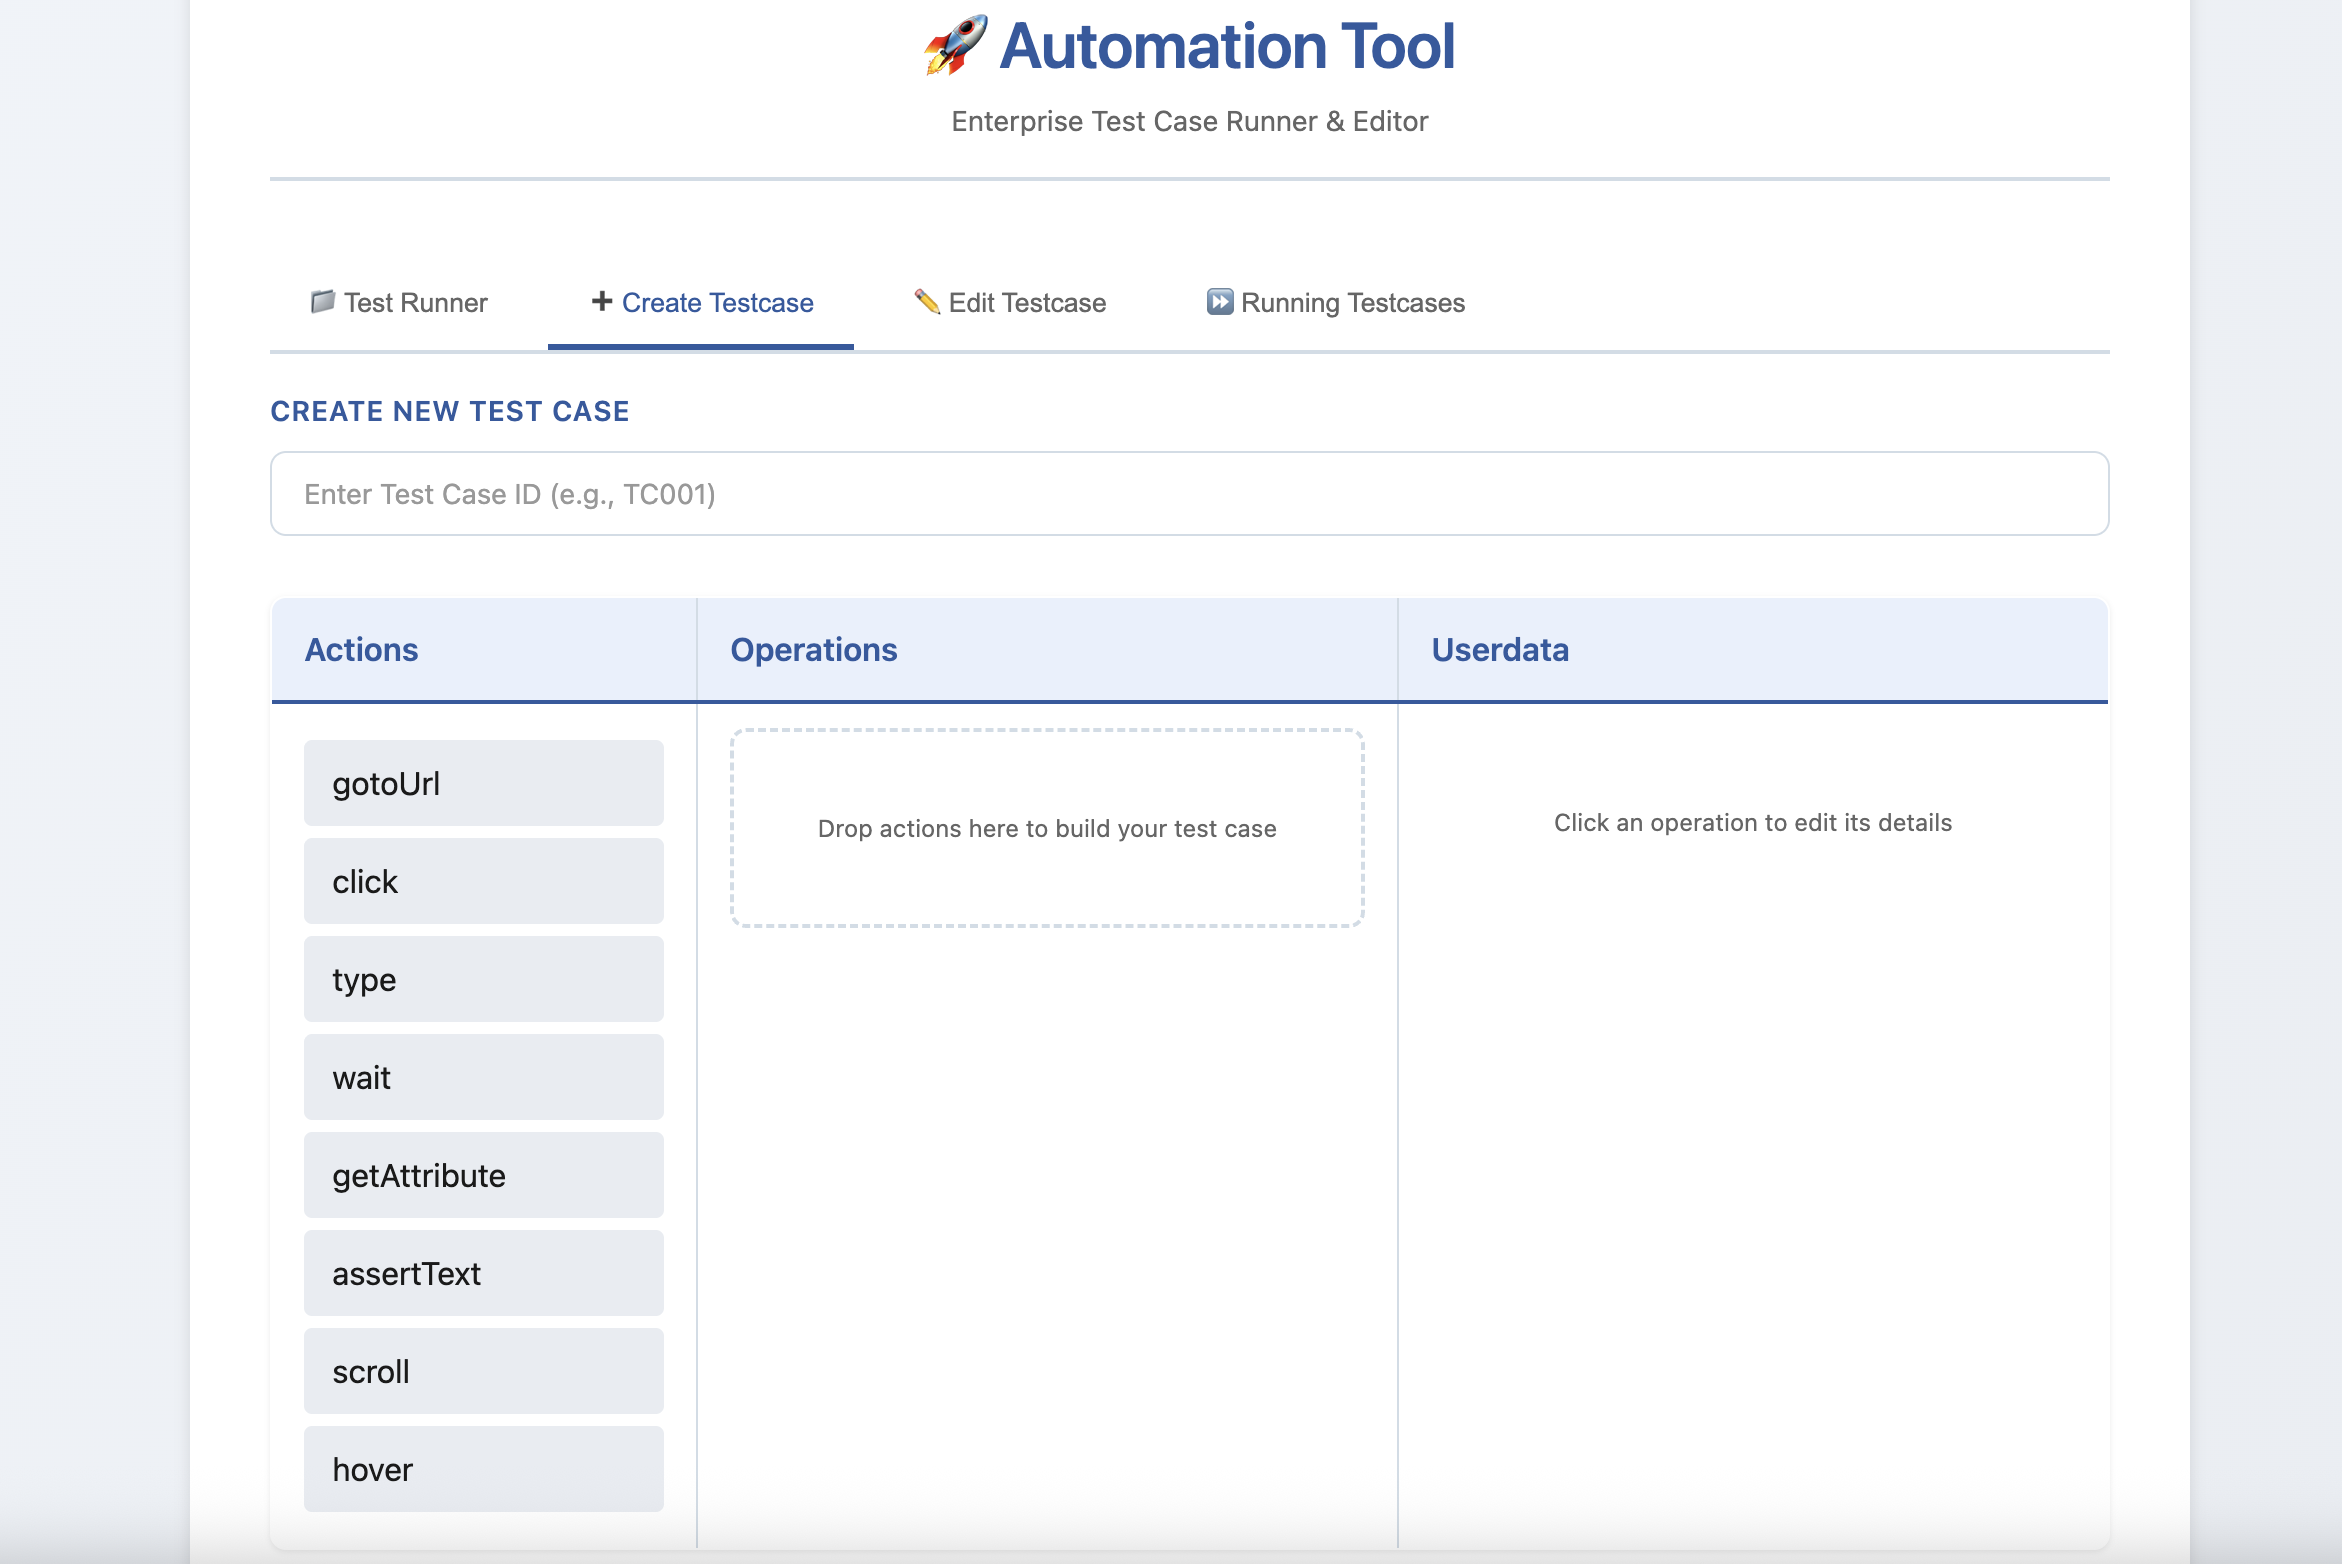
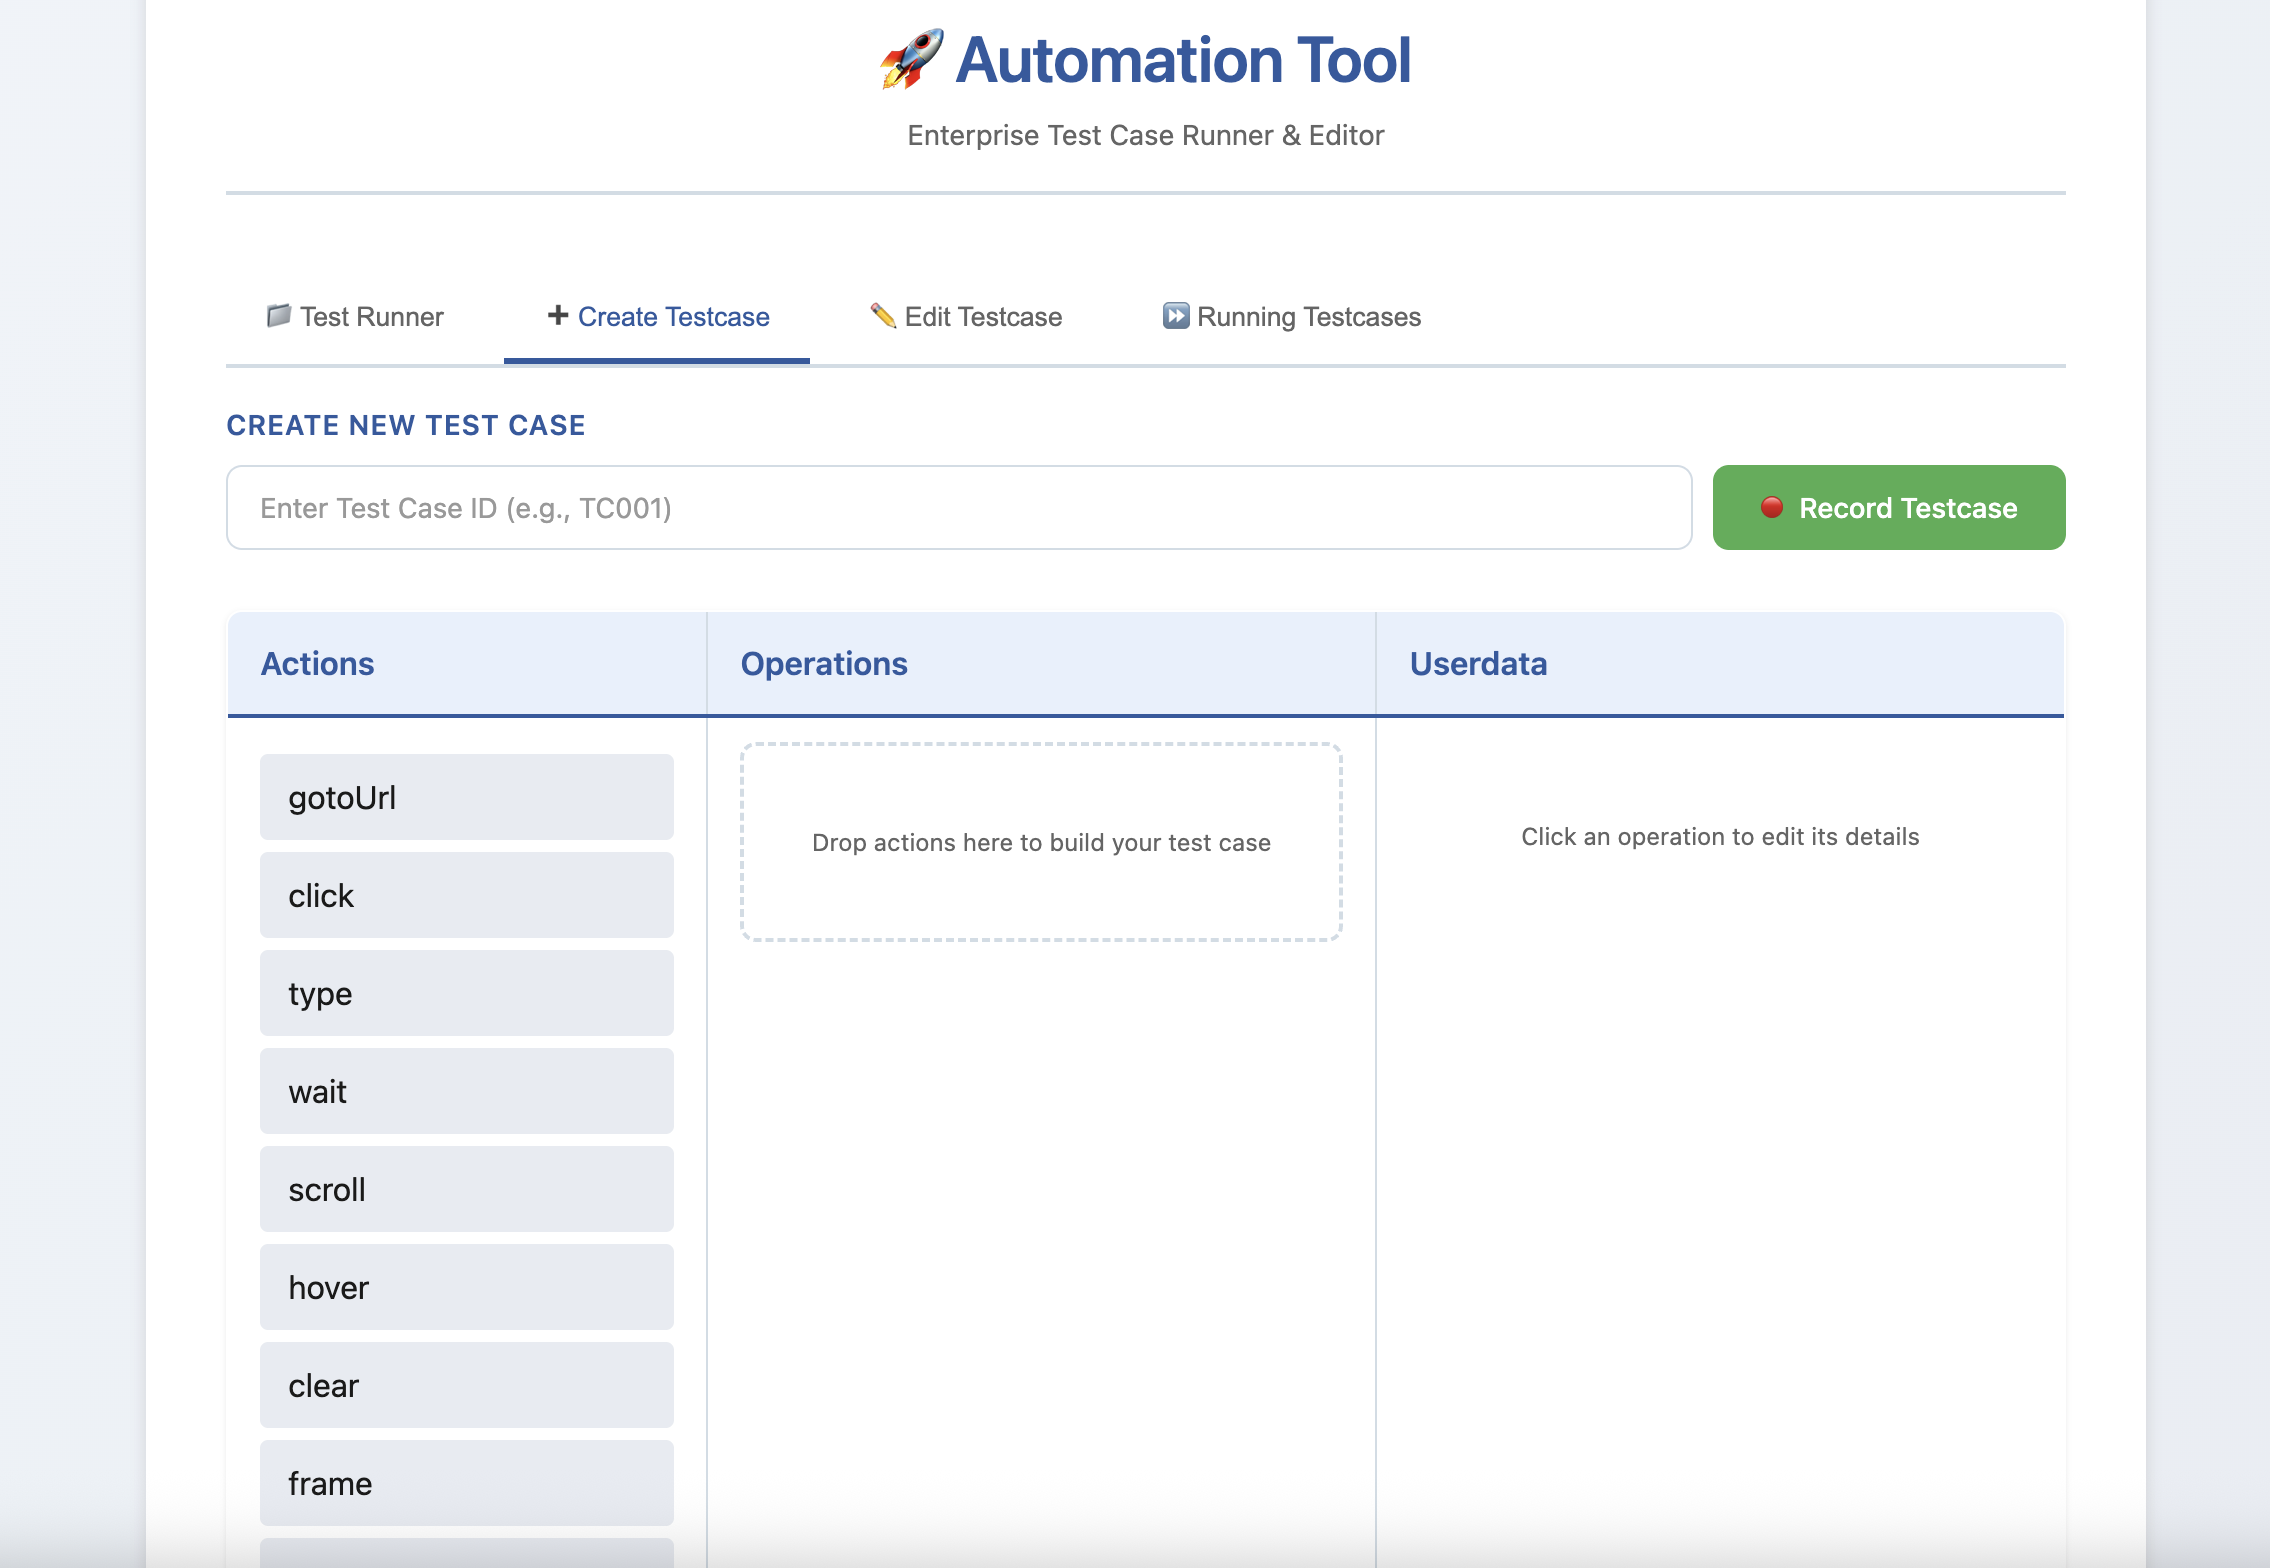
assertion support for recorder and readme updated

diff --git a/src/main/webapp/js/index.js b/src/main/webapp/js/index.js
@@ -504,6 +504,7 @@ async function recordTestcaseServer(fileName, location, testcaseId, epic, featur
             document.getElementById('feature').value = '';
             document.getElementById('story').value = '';
             document.getElementById('description').value = '';
+            document.getElementById('webpageUrl').value = '';
         } else {
             showStatus(result.message || 'Failed to record test case', 'error');
         }

diff --git a/src/main/java/org/automation/driver/ActionRecorder.java b/src/main/java/org/automation/driver/ActionRecorder.java
@@ -155,7 +155,7 @@ public class ActionRecorder {
 //                        lastTs = ts;
 //                    }
 //                }
-                logger.info("⏱ Synced → total actions: {} %n", actions.size());
+                logger.info("⏱ Synced → total actions: {}", actions.size());
             }
         } catch (Exception e) {
             // Silent fail during polling - usually page closing
@@ -166,7 +166,6 @@ public class ActionRecorder {
     private void injectRecorderScript(Page page) {
         page.addInitScript("""
             // Load existing actions from localStorage (survives same-origin navigation)
-//            let recordedActions = [];
             window.recordedActions = window.recordedActions || [];
             try {
                 const stored = localStorage.getItem('recordedActions');
@@ -215,6 +214,75 @@ public class ActionRecorder {
                 } catch (e) {
                     console.error('Failed to save to localStorage:', e);
                 }
+            }
+            
+            function getElementText(element) {
+                try {
+                    if (!element) return '';
+                    let text = '';
+                    // 0. Selected text (highest priority)
+                    const selection = window.getSelection();
+                    if (selection && selection.toString().trim()) {
+                        return selection.toString().trim();
+                    }
+                    // 7. value (for inputs & buttons)
+                    if ('value' in element) {
+                        text = element.value;
+                        if (text && text.trim()) {
+                            return text.trim();
+                        }
+                    }
+                    // 1. Visible text
+                    text = element.innerText || element.textContent;
+                    if (text && text.trim()) {
+                        return text.trim();
+                    }
+                    // 2. aria-label
+                    text = element.getAttribute('aria-label');
+                    if (text && text.trim()) {
+                        return text.trim();
+                    }
+                    // 3. Associated <label for="id">
+                    const id = element.getAttribute('id');
+                    if (id) {
+                        const label = document.querySelector(`label[for="${CSS.escape(id)}"]`);
+                        if (label && label.innerText.trim()) {
+                            return label.innerText.trim();
+                        }
+                    }
+                    // 5. placeholder
+                    text = element.getAttribute('placeholder');
+                    if (text && text.trim()) {
+                        return text.trim();
+                    }
+                    // 6. title
+                    text = element.getAttribute('title');
+                    if (text && text.trim()) {
+                        return text.trim();
+                    }
+                    // 4. Parent <label>
+                    const parentLabel = element.closest('label');
+                    if (parentLabel) {
+                        text = parentLabel.innerText;
+                        if (text && text.trim()) {
+                            return text.trim();
+                        }
+                    }
+                    return '';
+                } catch (e) {
+                    return '';
+                }
+            }
+            
+            function getElementFromSelection() {
+                const selection = window.getSelection();
+                if (!selection || selection.rangeCount === 0) return null;
+                let node = selection.getRangeAt(0).commonAncestorContainer;
+                // If it's a text node, get its parent element
+                if (node.nodeType === Node.TEXT_NODE) {
+                    node = node.parentElement;
+                }
+                return node;
             }
 
             // CLICK
@@ -273,6 +341,33 @@ public class ActionRecorder {
                 saveActions();
             }, true);
 
+            //Assert Contains Text
+            document.addEventListener('keydown', e => {
+                // Detect Ctrl+C (Windows/Linux) or Cmd+C (Mac)
+                const isCopy = (e.ctrlKey || e.metaKey) && e.key.toLowerCase() === 'c';
+                console.log('--- is copy-'+isCopy);
+                if (!isCopy) return;
+            
+                let active = document.activeElement;
+                if (!active || active === document.body) {
+                    active = getElementFromSelection();
+                }
+                const extractedText = getElementText(active);
+                console.log('--- extractedText-'+extractedText);
+                const selector = getRobustSelector(active);
+            
+                const action = {
+                    actionType: 'containsText',
+                    locator: selector,
+                    arguments: [extractedText],
+                    methodName: 'assertText'
+                };
+            
+                window.recordedActions.push(action);
+                console.log("ACTION:", action);
+                saveActions();
+            }, true);
+
             // SCROLL - debounced
             window.addEventListener('scroll', () => {
                 const now = Date.now();
@@ -301,7 +396,7 @@ public class ActionRecorder {
         try {
             Files.createDirectories(Paths.get(path).getParent());
             mapper.writerWithDefaultPrettyPrinter().writeValue(new File(path), actions);
-            logger.info("✅ Saved {} actions to: {} %n", actions.size(), path);
+            logger.info("✅ Saved {} actions to: {}", actions.size(), path);
         } catch (Exception e) {
             logger.error("Failed to save JSON: {}", e.getMessage());
         }
@@ -329,4 +424,25 @@ public class ActionRecorder {
 //            System.out.println("Playwright detected browser/page closure");
 //            syncActionsFromPage(page);
 //        }
+ */
+
+/*
+            document.addEventListener('copy', e => {
+                console.log('!!! copy listener');
+                const selection = window.getSelection();
+                const extractedText = selection ? selection.toString().trim() : '';
+
+                const active = document.activeElement;
+
+                const action = {
+                    actionType: 'containsText',
+                    locator: active ? getRobustSelector(active) : null,
+                    arguments: [extractedText],
+                    methodName: 'assertText'
+                };
+
+                window.recordedActions.push(action);
+                console.log('COPY ACTION:', action);
+                saveActions();
+            }, true);
  */

diff --git a/README.md b/README.md
@@ -4,17 +4,18 @@
 
 ## ✨ **Key Features**
 
-| Feature | Description                                             |
-|---------|---------------------------------------------------------|
-| **🧪 Dual Framework Support** | Run test cases with **Selenium** or **Playwright**      |
-| **⏰ Scheduled Execution** | Schedule test runs using cron-like expressions          |
-| **📊 Advanced Reporting** | **Allure** + **JasperReports** with rich visualizations |
-| **📧 Mail Notifications** | Automatic email alerts on test completion/failure       |
-| **🔧 Framework Extensibility** | Extend with your custom automation frameworks           |
-| **🐳 Docker Ready** | Containerized deployment for CI/CD pipelines            |
-| **📸 Step-by-Step Screenshots** | Automatic screenshots attached to every report          |
-| **⚡ Web UI** | JSP/Servlet-based dashboard                             |
-| **🔍 Locator Discovery** | Lists locators for all **interactable elements**        |
+| Feature                         | Description                                                                                |
+|---------------------------------|--------------------------------------------------------------------------------------------|
+| **🧪 Dual Framework Support**   | Run test cases with **Selenium** or **Playwright**                                         |
+| **⏰ Scheduled Execution**       | Schedule test runs using cron-like expressions                                             |
+| **📊 Advanced Reporting**       | **Allure** + **JasperReports** with rich visualizations                                    |
+| **🎥 Action Recorder**          | Record actions performed in browser & automatically save test case when the browser closes |
+| **📧 Mail Notifications**       | Automatic email alerts on test completion/failure                                          |
+| **🔧 Framework Extensibility**  | Extend with your custom automation frameworks                                              |
+| **🐳 Docker Ready**             | Containerized deployment for CI/CD pipelines                                               |
+| **📸 Step-by-Step Screenshots** | Automatic screenshots attached to every report                                             |
+| **⚡ Web UI**                    | JSP/Servlet-based dashboard                                                                |
+| **🔍 Locator Discovery**        | Lists locators for all **interactable elements**                                           |
 
 ## 🎯 **Use Cases**
 
